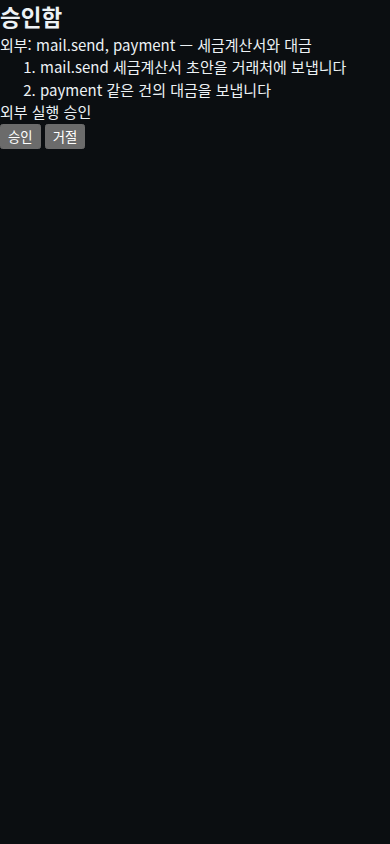
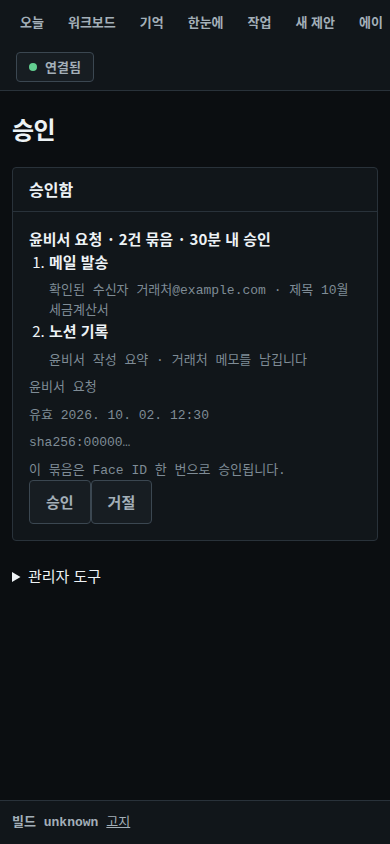
fix(inbox): show Korean batch copy in the real approval page
The phone-width shots are the built dashboard, not a bare HTML harness. One approve button covers the batch, and an 18-item list scrolls when expanded.

diff --git a/dashboard/src/owner-inbox-panel.tsx b/dashboard/src/owner-inbox-panel.tsx
@@ -15,8 +15,23 @@ type Item = Readonly<{
   needs_review?: boolean;
   failure_code?: string | null;
   state?: string;
-  batch_items?: readonly { action_kind: string; summary: string; payload_digest: string }[];
+  batch_items?: readonly BatchLine[];
 }>;
+
+type BatchLine = Readonly<{
+  action_kind: string;
+  summary: string;
+  payload_digest: string;
+  mail_to?: string;
+  mail_subject?: string;
+}>;
+
+const KIND_LABEL: Readonly<Record<string, string>> = {
+  "mail.send": "메일 발송",
+  "notion.write": "노션 기록",
+  "tax.transmit": "세금 전송",
+  "payment": "결제",
+};
 
 type Status = "loading" | "ready" | "error" | "unconfigured";
 
@@ -57,7 +72,9 @@ export function OwnerInboxPanel() {
   useEffect(() => { void load(); }, [phone]);
 
   async function decide(item: Item, decision: "approve" | "reject"): Promise<void> {
-    const confirmed = window.confirm(`${decision === "approve" ? "이 요청만 승인합니다." : "이 요청만 거절합니다."}\n${item.summary}\n${item.command_digest}`);
+    const confirmed = window.confirm(decision === "approve"
+      ? "이 묶음 전체를 Face ID 한 번으로 승인합니다."
+      : "이 묶음 전체를 거절합니다.");
     if (!confirmed) return;
     if (typeof navigator.credentials?.get !== "function") {
       setNotice("이 기기에는 패스키가 없습니다. 휴대폰에서 한 번 등록한 뒤에만 승인할 수 있습니다.");
@@ -162,20 +179,15 @@ export function OwnerInboxPanel() {
         <ul className="record-list">
           {items.filter(item => !item.needs_review).map(item => (
             <li className="record" key={item.request_id}>
-              <p className="record-title">{item.summary}</p>
-              {item.batch_items && item.batch_items.length > 0 ? (
-                <ol className="batch-list" data-batch="true">
-                  {item.batch_items.map(batch => (
-                    <li key={batch.payload_digest}><span>{batch.action_kind}</span> {batch.summary}</li>
-                  ))}
-                </ol>
-              ) : null}
+              <p className="record-title">{item.batch_items && item.batch_items.length > 0 ? `윤비서 요청 · ${item.batch_items.length}건 묶음 · 30분 내 승인` : item.summary}</p>
+              {item.batch_items && item.batch_items.length > 0 ? <BatchLines items={item.batch_items} /> : null}
               {item.expired ? <p className="record-meta">만료됨. 이 요청은 더 이상 승인할 수 없습니다.</p> : null}
               <p className="record-meta">{actionLabel(item.action)}</p>
               <p className="record-meta"><time dateTime={item.expires_at}>유효 {formatKst(item.expires_at)}</time></p>
               <Digest value={item.command_digest} />
               {item.expired || item.manual_wait ? null : (
                 <>
+                  <p className="record-meta">이 묶음은 Face ID 한 번으로 승인됩니다.</p>
                   <button type="button" disabled={busyId === item.request_id} onClick={() => { void decide(item, "approve"); }}>승인</button>
                   <button type="button" disabled={busyId === item.request_id} onClick={() => { void decide(item, "reject"); }}>거절</button>
                 </>
@@ -185,6 +197,32 @@ export function OwnerInboxPanel() {
         </ul>
       </div>
     </section>
+  );
+}
+
+function BatchLines({ items }: Readonly<{ items: readonly BatchLine[] }>) {
+  const [open, setOpen] = useState(items.length <= 6);
+  const shown = open ? items : items.slice(0, 3);
+  return (
+    <>
+      <ol className={open && items.length > 6 ? "batch-list expanded" : "batch-list"} data-batch="true">
+        {shown.map(batch => (
+          <li key={batch.payload_digest}>
+            <strong>{KIND_LABEL[batch.action_kind] ?? "외부 요청"}</strong>
+            {batch.action_kind === "mail.send" && batch.mail_to && batch.mail_subject ? (
+              <p className="record-meta">확인된 수신자 {batch.mail_to} · 제목 {batch.mail_subject}</p>
+            ) : (
+              <p className="record-meta">윤비서 작성 요약 · {batch.summary}</p>
+            )}
+          </li>
+        ))}
+      </ol>
+      {items.length > 6 ? (
+        <button type="button" onClick={() => { setOpen(value => !value); }}>
+          {open ? "접기" : `나머지 ${items.length - 3}건 보기`}
+        </button>
+      ) : null}
+    </>
   );
 }
 

diff --git a/src/owner-inbox.ts b/src/owner-inbox.ts
@@ -56,7 +56,13 @@ export type OwnerInboxItem = Readonly<{
   needs_review: boolean;
   failure_code: string | null;
   batch_summary?: string;
-  batch_items?: readonly { action_kind: string; summary: string; payload_digest: string }[];
+  batch_items?: readonly {
+    action_kind: string;
+    summary: string;
+    payload_digest: string;
+    mail_to?: string;
+    mail_subject?: string;
+  }[];
 }>;
 
 const ACTION_SUMMARY: Readonly<Record<string, string>> = {
@@ -304,7 +310,7 @@ function itemOf(row: Row, expired: boolean): OwnerInboxItem {
 function externalDisplay(row: Row): {
   summary: string;
   batch_summary: string;
-  batch_items: { action_kind: string; summary: string; payload_digest: string }[];
+  batch_items: { action_kind: string; summary: string; payload_digest: string; mail_to?: string; mail_subject?: string }[];
 } | undefined {
   if (row.action !== "external.delegate" || row.args_json === undefined) return undefined;
   let parsed: unknown;
@@ -314,10 +320,19 @@ function externalDisplay(row: Row): {
   const batchSummary = typeof args.batch_summary === "string" ? args.batch_summary : "";
   const items = Array.isArray(args.items) ? args.items.flatMap(item => {
     if (typeof item !== "object" || item === null) return [];
-    const rowItem = item as { action_kind?: unknown; summary?: unknown; payload_digest?: unknown };
+    const rowItem = item as { action_kind?: unknown; summary?: unknown; payload_digest?: unknown; mail_to?: unknown; mail_subject?: unknown };
     if (typeof rowItem.action_kind !== "string" || typeof rowItem.summary !== "string" || typeof rowItem.payload_digest !== "string") return [];
-    return [{ action_kind: rowItem.action_kind, summary: rowItem.summary, payload_digest: rowItem.payload_digest }];
+    return [{
+      action_kind: rowItem.action_kind,
+      summary: rowItem.summary,
+      payload_digest: rowItem.payload_digest,
+      ...(typeof rowItem.mail_to === "string" ? { mail_to: rowItem.mail_to } : {}),
+      ...(typeof rowItem.mail_subject === "string" ? { mail_subject: rowItem.mail_subject } : {}),
+    }];
   }) : [];
-  const kinds = items.map(item => item.action_kind).join(", ") || "batch";
-  return { summary: `외부: ${kinds} — ${batchSummary}`, batch_summary: batchSummary, batch_items: items };
+  return {
+    summary: `윤비서 요청 · ${items.length}건 묶음 · 30분 내 승인`,
+    batch_summary: batchSummary,
+    batch_items: items,
+  };
 }

diff --git a/tests/unit/external-delegate.test.ts b/tests/unit/external-delegate.test.ts
@@ -49,7 +49,7 @@ describe("external.delegate", () => {
     const staged = control.stage(stagedInput(), NOW);
     const inbox = new OwnerInbox(db, new ControlReceiptSigner(localKey(db), "decision-test", "test-operator"), true, () => NOW);
     const listed = inbox.list().find(item => item.request_id === staged.request_id);
-    expect(listed?.summary).toBe("외부: mail.send, payment — 두 건");
+    expect(listed?.summary).toBe("윤비서 요청 · 2건 묶음 · 30분 내 승인");
     expect(listed?.batch_items).toHaveLength(2);
     db.db.prepare("INSERT INTO owner_inbox_credentials(credential_id, public_key, counter, created_at) VALUES(?,?,?,?)")
       .run("cred-1", Buffer.from("pk"), 0, NOW.toISOString());

diff --git a/dashboard/src/copy.ts b/dashboard/src/copy.ts
@@ -182,7 +182,7 @@ const ACTION_LABELS: Readonly<Record<string, string>> = {
   "workflow.register": "작업 흐름 등록",
   "workflow.start": "작업 시작",
   "task.execute": "작업 실행",
-  "external.delegate": "외부 실행 승인",
+  "external.delegate": "윤비서 요청",
 };
 
 export function stateLabel(value: string): string {

diff --git a/dashboard/src/styles/responsive.css b/dashboard/src/styles/responsive.css
@@ -32,6 +32,11 @@
   min-inline-size: 0;
 }
 
+.batch-list.expanded {
+  max-block-size: 22rem;
+  overflow: auto;
+}
+
 @media (max-width: 40rem) {
   .operational-shell,
   .operational-shell-main,
